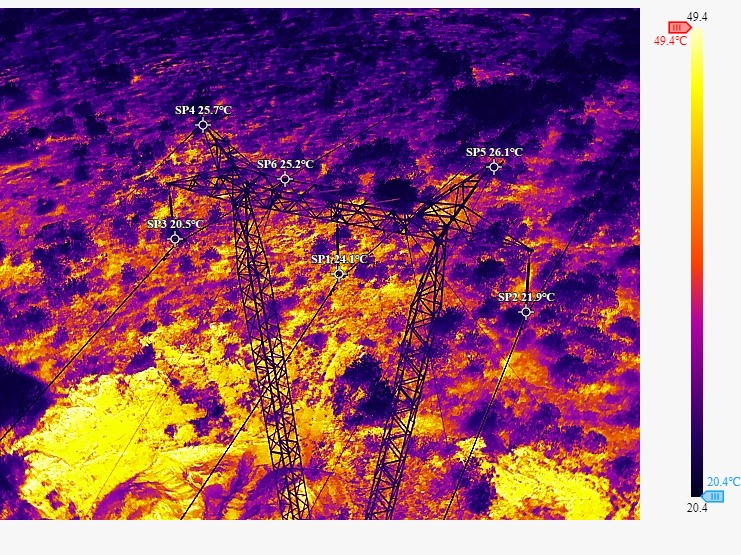
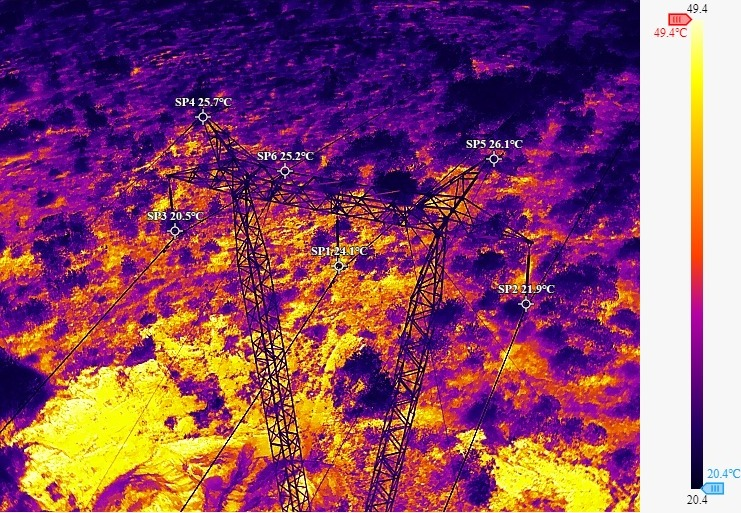
Refine change history, add slide interactions, trim thermography borders
History:
- Removed-slide records are now inert (not clickable) instead of redirecting to
  the index, so the link no longer implies the change happened at the destination.
- (Accumulated from prior work: transferência action, consolidation, obsolescence
  tracking, document badge shortcut, breadcrumb/observação role labels.)

Slides:
- Info banner (.note-banner) becomes clickable to expand/collapse when its text is
  clamped on narrow viewports.
- Subsection post-scriptum below the mosaic (green .post-details, from the snapshots)
  for the door polymer-seal note; identical per-image observations are now hidden.
- "Bateria do GMG (Grupo Motor-Gerador)" subtitle shortened to "Bateria do GMG".
- Thermography photos: trimmed the near-white top/bottom borders (right-side
  temperature scale preserved), regenerated variants, updated <img> dimensions.

Index: updated the last-modified date.

diff --git a/scripts/slide-history.js b/scripts/slide-history.js
@@ -344,7 +344,21 @@
     if (p.documento) {
       const d = p.documento;
       const met = el('div', 'hist-meta');
-      met.appendChild(el('span', 'hist-meta-item hist-meta-ext', 'PDF'));
+      // badge da extensão: com slide associado, vira o mesmo ATALHO da listagem de documentos (o "ir ↗"
+      // sobreposto ao badge) — em repouso mostra "PDF"; ao pairar/focar troca por "↗" e leva ao slide.
+      const ext = el('span', 'hist-meta-item hist-meta-ext' + (d.slide ? ' hist-meta-ext--goto' : ''));
+      if (d.slide) {
+        ext.tabIndex = 0;
+        ext.setAttribute('role', 'link');
+        ext.title = 'Ir para o slide relacionado';
+        ext.appendChild(el('span', 'hist-ext-label', 'PDF'));
+        const ir = e => { e.preventDefault(); e.stopPropagation(); location.href = base + d.slide; };
+        ext.addEventListener('click', ir);
+        ext.addEventListener('keydown', e => { if (e.key === 'Enter' || e.key === ' ') ir(e); });
+      } else {
+        ext.textContent = 'PDF';
+      }
+      met.appendChild(ext);
       if (d.versao) met.appendChild(el('span', 'hist-meta-item', 'versão ' + d.versao));
       if (d.paginas) met.appendChild(el('span', 'hist-meta-item', d.paginas + (d.paginas === '1' ? ' página' : ' páginas')));
       if (d.tamanho) met.appendChild(el('span', 'hist-meta-item', d.tamanho));
@@ -413,16 +427,19 @@
 
   // ── um registro (pode reunir várias alterações do mesmo elemento, feitas no mesmo commit) ──
   function cartao(r) {
-    const a = el('a', 'hist-card hist-card--' + slug(r.acao));
-    a.href = base + (r.link || 'slides/index.html');
+    const a = el('a', 'hist-card hist-card--' + slug(r.acao) + (r.alvoAusente ? ' hist-card--inerte' : ''));
     a.dataset.acao = r.acao;
     a.dataset.tipo = r.tipo;
     if (r.id) a.dataset.id = r.id;
 
-    // clique no cartão INTEIRO: localiza todas as imagens do registro (foco geral). Se o slide-alvo
-    // não existe mais (alvoAusente), o link já aponta para o índice — não faz sentido tentar localizar.
+    // clique no cartão INTEIRO: localiza todas as imagens do registro (foco geral). Se o slide-alvo não
+    // existe mais (alvoAusente), o registro fica INERTE — sem href e sem clique —, pois levar a qualquer
+    // destino sugeriria falsamente que a alteração ocorreu lá.
     const textoGeral = (r.tipo === 'título' ? (r.partes ? r.partes[0].para : r.para) : (r.breadcrumb || []).slice(-1)[0]) || null;
-    a.addEventListener('click', () => { if (!r.alvoAusente) salvaFoco(r, focoImgs(r), textoGeral); });
+    if (!r.alvoAusente) {
+      a.href = base + (r.link || 'slides/index.html');
+      a.addEventListener('click', () => salvaFoco(r, focoImgs(r), textoGeral));
+    }
 
     const topo = el('div', 'hist-card-top');
     topo.appendChild(badgeAcao(r.acao));
@@ -435,7 +452,7 @@
     const canto = el('div', 'hist-topinfo' + (r.alvoAusente ? ' hist-topinfo--ausente' : ''));
     if (r.alvoAusente) {
       const av = el('span', 'hist-ausente');
-      av.title = 'O slide original foi removido — o link abre o índice.';
+      av.title = 'O slide original foi removido — este registro é apenas informativo.';
       // ícone de VÍNCULO QUEBRADO + rótulo; no mobile fica só o ícone (espaço limitado)
       av.innerHTML = '<svg class="hist-ausente-icon" viewBox="0 0 24 24" width="1em" height="1em" fill="none" stroke="currentColor" stroke-width="2" stroke-linecap="round" stroke-linejoin="round" aria-hidden="true"><path d="m18.84 12.25 1.72-1.71a5 5 0 0 0-7.07-7.07l-1.72 1.71"/><path d="m5.17 11.75-1.71 1.71a5 5 0 0 0 7.07 7.07l1.71-1.71"/><line x1="8" y1="2" x2="8" y2="5"/><line x1="2" y1="8" x2="5" y2="8"/><line x1="16" y1="19" x2="16" y2="22"/><line x1="19" y1="16" x2="22" y2="16"/></svg>';
       av.appendChild(el('span', 'hist-ausente-txt', 'slide indisponível'));

diff --git a/slides/slide-thermography-inspection.html b/slides/slide-thermography-inspection.html
@@ -51,14 +51,14 @@
             <div class="img img-default img-largest">
               <picture>
                 <source type="image/webp" srcset="../assets/img/slides/se/thermography-inspection/thermo-22-200.webp 200w, ../assets/img/slides/se/thermography-inspection/thermo-22-640.webp 640w, ../assets/img/slides/se/thermography-inspection/thermo-22-741.webp 741w" sizes="(max-width: 992px) 94vw, 960px" />
-                <img fetchpriority="high" width="741" height="555" src="../assets/img/slides/se/thermography-inspection/thermo-22.jpeg" alt="Inspeção termográfica — diversos (foto 1 de 6)" loading="eager" />
+                <img fetchpriority="high" width="741" height="513" src="../assets/img/slides/se/thermography-inspection/thermo-22.jpeg" alt="Inspeção termográfica — diversos (foto 1 de 6)" loading="eager" />
               </picture>
               <p class="obs obs-default invisible"></p>
             </div>
             <div class="img img-default">
               <picture>
                 <source type="image/webp" srcset="../assets/img/slides/se/thermography-inspection/thermo-23-200.webp 200w, ../assets/img/slides/se/thermography-inspection/thermo-23-640.webp 640w, ../assets/img/slides/se/thermography-inspection/thermo-23-741.webp 741w" sizes="(max-width: 576px) 92vw, (max-width: 992px) 46vw, 468px" />
-                <img width="741" height="555" src="../assets/img/slides/se/thermography-inspection/thermo-23.jpeg" alt="Inspeção termográfica — diversos (foto 2 de 6)" loading="eager" />
+                <img width="741" height="514" src="../assets/img/slides/se/thermography-inspection/thermo-23.jpeg" alt="Inspeção termográfica — diversos (foto 2 de 6)" loading="eager" />
               </picture>
               <p class="obs obs-default invisible"></p>
             </div>
@@ -72,7 +72,7 @@
             <div class="img img-default">
               <picture>
                 <source type="image/webp" srcset="../assets/img/slides/se/thermography-inspection/thermo-25-200.webp 200w, ../assets/img/slides/se/thermography-inspection/thermo-25-640.webp 640w, ../assets/img/slides/se/thermography-inspection/thermo-25-741.webp 741w" sizes="(max-width: 576px) 92vw, (max-width: 992px) 46vw, 468px" />
-                <img width="741" height="555" src="../assets/img/slides/se/thermography-inspection/thermo-25.jpeg" alt="Inspeção termográfica — diversos (foto 4 de 6)" loading="eager" />
+                <img width="741" height="514" src="../assets/img/slides/se/thermography-inspection/thermo-25.jpeg" alt="Inspeção termográfica — diversos (foto 4 de 6)" loading="eager" />
               </picture>
               <p class="obs obs-default invisible"></p>
             </div>
@@ -86,7 +86,7 @@
             <div class="img img-default img-largest">
               <picture>
                 <source type="image/webp" srcset="../assets/img/slides/se/thermography-inspection/thermo-27-200.webp 200w, ../assets/img/slides/se/thermography-inspection/thermo-27-640.webp 640w, ../assets/img/slides/se/thermography-inspection/thermo-27-734.webp 734w" sizes="(max-width: 992px) 94vw, 960px" />
-                <img width="734" height="555" src="../assets/img/slides/se/thermography-inspection/thermo-27.jpeg" alt="Inspeção termográfica — diversos (foto 6 de 6)" loading="eager" />
+                <img width="734" height="514" src="../assets/img/slides/se/thermography-inspection/thermo-27.jpeg" alt="Inspeção termográfica — diversos (foto 6 de 6)" loading="eager" />
               </picture>
               <p class="obs obs-default invisible"></p>
             </div>

diff --git a/styles/slide-style.css b/styles/slide-style.css
@@ -477,6 +477,45 @@ a.flex-logo-container {
 }
 
 
+/* ── POST-SCRIPTUM de subseção — reaproveitado das snapshots (public/snapshots) ──────────────
+   "Detalhe" logo abaixo das imagens de uma subseção: uma observação que valha manter, mas que
+   repetida sob cada miniatura poluiria o mosaico (as observações idênticas são ocultadas por
+   ocultaObsRedundantes() em slide-nav.js). Caixa tracejada, com o mesmo arredondamento das imagens
+   do mosaico; cores herdadas das snapshots. A variante .post-details é a VERDE (vedação das portas). */
+.postscriptum-container {
+  display: flex;
+  flex-direction: column;
+  align-items: center;
+  gap: var(--gap-12);
+}
+.postscriptum-wrapper {
+  max-width: 720px;
+  /* sem margem própria: a distância até as imagens acima vem só do row-gap do .content-wrapper
+     (--content-gap), a MESMA aplicada entre o subtítulo e as imagens */
+  margin: 0 auto;
+  /* mesmo arredondamento das imagens do mosaico (.img usa --border-item) */
+  border-radius: var(--border-item);
+  overflow: hidden;
+  cursor: default;
+  -webkit-backdrop-filter: blur(24px);
+  backdrop-filter: blur(24px);
+}
+.postscriptum-wrapper p {
+  margin: 0;
+  padding: 0.5rem 1rem;
+  font-size: calc(var(--font-size-content) * var(--font-size-multiplier-xs));
+  font-weight: var(--font-weight-bold);
+}
+/* variantes (fundos escuros translúcidos — mesmos tokens do rótulo de posição das imagens) */
+.post-alert    { background-color: var(--color-dark-yellow-alpha-50); border: 1.5px dashed var(--color-yellow); }
+.post-alert p    { color: var(--color-yellow); }
+
+.post-details  { background-color: var(--color-dark-green-alpha-50); border: 1.5px dashed var(--color-green); }
+.post-details p  { color: var(--color-green); }
+
+.post-critical { background-color: var(--color-dark-red-alpha-50); border: 1.5px dashed var(--color-red); }
+.post-critical p { color: var(--color-red); }
+
 /* ── banner de LEMBRETE / observação (REUTILIZÁVEL) — mesma posição do banner de
    RDC (primeiro filho do .content-wrapper, acima das seções). CSS-only, sem JS.
    Identidade fixa: acento navy com alerta "!" + etiqueta amarela "Lembrete"; a cor
@@ -721,6 +760,23 @@ a.flex-logo-container {
 
     & .note-banner-code { text-decoration: underline; }
   }
+}
+
+/* ── EXPANSÍVEL: o texto tem teto de 3 linhas (line-clamp). Quando esse teto TRUNCA o conteúdo —
+   sobretudo ao estreitar a viewport —, o JS (bannerExpansivel, slide-nav.js) marca .is-clampable e o
+   banner vira um botão: clicar (.is-expanded) solta o teto e revela todo o texto; clicar de novo
+   colapsa. Não vale para o .note-banner--rdc, que é um <a> e navega. */
+.note-banner.is-clampable {
+  cursor: pointer;
+
+  &:hover,
+  &:focus-visible { background-color: var(--lt-surface-muted); }
+}
+.note-banner.is-expanded .note-banner-text {
+  -webkit-line-clamp: unset;
+  line-clamp: unset;
+  display: block;
+  overflow: visible;
 }
 
 @media (max-width: 640px) {

diff --git a/scripts/slide-nav.js b/scripts/slide-nav.js
@@ -1356,6 +1356,53 @@ if (backToTop) {
   });
 }
 
+// ---- observações REDUNDANTES ----------------------------------------------
+// Se TODAS as observações visíveis de uma mesma subseção (um .mosaic-container) forem idênticas, o
+// subtítulo já basta e a mesma frase repetida sob cada miniatura vira ruído — oculta-as. Só dispara
+// quando há 2+ observações e todas coincidem; observações que variam de imagem para imagem ficam.
+(function ocultaObsRedundantes() {
+  document.querySelectorAll('.mosaic-container').forEach(mos => {
+    const obs = [...mos.querySelectorAll('.obs')].filter(o => !o.classList.contains('invisible') && o.textContent.trim());
+    if (obs.length < 2) return;
+    const base = obs[0].textContent.trim();
+    if (obs.every(o => o.textContent.trim() === base)) obs.forEach(o => o.classList.add('invisible'));
+  });
+})();
+
+// ---- banner informativo EXPANSÍVEL ----------------------------------------
+// O texto do .note-banner tem teto de 3 linhas (-webkit-line-clamp); ao estreitar a viewport, ele pode
+// cortar parte do conteúdo. Quando (e só quando) o texto está de fato truncado, o banner vira um botão
+// que expande/colapsa para revelar tudo. Não afeta o banner-RDC, que É um <a> e navega nativamente.
+(function bannerExpansivel() {
+  document.querySelectorAll('.note-banner:not(a)').forEach(banner => {
+    const txt = banner.querySelector('.note-banner-text');
+    if (!txt) return;
+    // truncado? Se já está expandido, o clamp está desligado — mantemos o toggle p/ poder COLAPSAR.
+    const cortado = () => banner.classList.contains('is-expanded') || txt.scrollHeight - txt.clientHeight > 1;
+    function sincroniza() {
+      const arm = cortado();
+      banner.classList.toggle('is-clampable', arm);
+      if (arm) {
+        banner.setAttribute('role', 'button');
+        banner.tabIndex = 0;
+        banner.setAttribute('aria-expanded', banner.classList.contains('is-expanded') ? 'true' : 'false');
+      } else {
+        banner.removeAttribute('role');
+        banner.removeAttribute('tabindex');
+        banner.removeAttribute('aria-expanded');
+      }
+    }
+    function alterna() { banner.classList.toggle('is-expanded'); sincroniza(); }
+    banner.addEventListener('click', () => { if (banner.classList.contains('is-clampable')) alterna(); });
+    banner.addEventListener('keydown', e => {
+      if ((e.key === 'Enter' || e.key === ' ') && banner.classList.contains('is-clampable')) { e.preventDefault(); alterna(); }
+    });
+    sincroniza();
+    window.addEventListener('resize', sincroniza, { passive: true });
+    window.addEventListener('load', sincroniza, { once: true });   // fontes/imagens podem reflowar após o defer
+  });
+})();
+
 document.addEventListener('keydown', e => {
   if (e.altKey || e.ctrlKey || e.metaKey) return;
 

diff --git a/styles/slide-history.css b/styles/slide-history.css
@@ -587,6 +587,18 @@
   &.is-evidenced.hist-card--descartada { --faixa: var(--hist-del); --faixa-2: var(--color-red-alpha-25); }
 }
 
+/* registro INERTE: o slide-alvo foi removido, então o cartão não leva a lugar nenhum (ver
+   corrigirLinks/alvoAusente no gerador). Sem afordância de clique — cursor padrão e nenhum realce no
+   hover — para não sugerir navegação nem que a alteração tenha ocorrido em outro destino. */
+.hist-card--inerte {
+  cursor: default;
+
+  &:hover,
+  &:focus-visible { background: var(--lt-surface-strong); }
+
+  &:active { transform: none; }
+}
+
 /* registro DEFASADO (tem alteração já superada por outra mais recente): preenchimento ZEBRADO sutil
    sobre o fundo do cartão, para diferenciá-lo dos vigentes à primeira vista — mesmo traço diagonal
    da faixa do mês, bem discreto para não competir com o texto. */
@@ -1410,6 +1422,37 @@
   font-weight: var(--font-weight-boldest);
   color: var(--lt-text);
   letter-spacing: 0.06em;
+}
+
+/* badge da extensão com ATALHO ao slide relacionado (mesmo mecanismo do "ir ↗" da listagem de
+   documentos): em repouso mostra "PDF"; ao pairar/focar, o "PDF" some e aparece "↗", em vermelho. */
+.hist-meta-ext--goto {
+  position: relative;
+  cursor: pointer;
+  transition: background-color 0.15s, border-color 0.15s, color 0.15s;
+
+  &:hover,
+  &:focus-visible {
+    background: var(--color-red-alpha-10);
+    border-color: var(--color-red);
+    color: var(--color-red);
+    outline: none;
+  }
+
+  &:hover .hist-ext-label,
+  &:focus-visible .hist-ext-label { visibility: hidden; }
+
+  &:hover::after,
+  &:focus-visible::after {
+    content: "\2197";   /* ↗ */
+    position: absolute;
+    inset: 0;
+    display: flex;
+    align-items: center;
+    justify-content: center;
+    color: var(--color-red);
+    font-weight: var(--font-weight-boldest);
+  }
 }
 
 /* imagens SUBSTITUÍDAS (trocadas por outras de mesmo nome): o sublinhado pontilhado + cursor de

diff --git a/slides/slide-substation-restoration.html b/slides/slide-substation-restoration.html
@@ -270,6 +270,11 @@
               <p class="obs obs-default">Aplicado vedação polimérica nas portas do hall de entrada, da sala de comando e da saída para o pátio energizado.</p>
             </div>
           </div>
+          <div class="postscriptum-container">
+            <div class="postscriptum-wrapper post-details">
+              <p>Aplicado vedação polimérica nas portas do hall de entrada, da sala de comando e da saída para o pátio energizado.</p>
+            </div>
+          </div>
         </div>
       </div>
     </main>

diff --git a/slides/index.html b/slides/index.html
@@ -41,7 +41,7 @@
         <p>Versão demonstrativa | Apenas imagens disponíveis</p>
       </div>
       <div class="update-info">
-        <p>Última atualização em 17-07-26 (sexta-feira, às 12h01)</p>
+        <p>Última atualização em 18-07-26 (sábado, às 12h18)</p>
       </div>
       <div class="content-container">
         <div class="content-wrapper">

diff --git a/slides/slide-measurements.html b/slides/slide-measurements.html
@@ -45,7 +45,7 @@
       <div class="content-container">
         <div class="content-wrapper">
           <div class="title-header-h2">
-            <h2 class="title-h2">Bateria do GMG (Grupo Motor-Gerador)</h2>
+            <h2 class="title-h2">Bateria do GMG</h2>
           </div>
           <div class="mosaic-container">
             <div class="img img-default">
